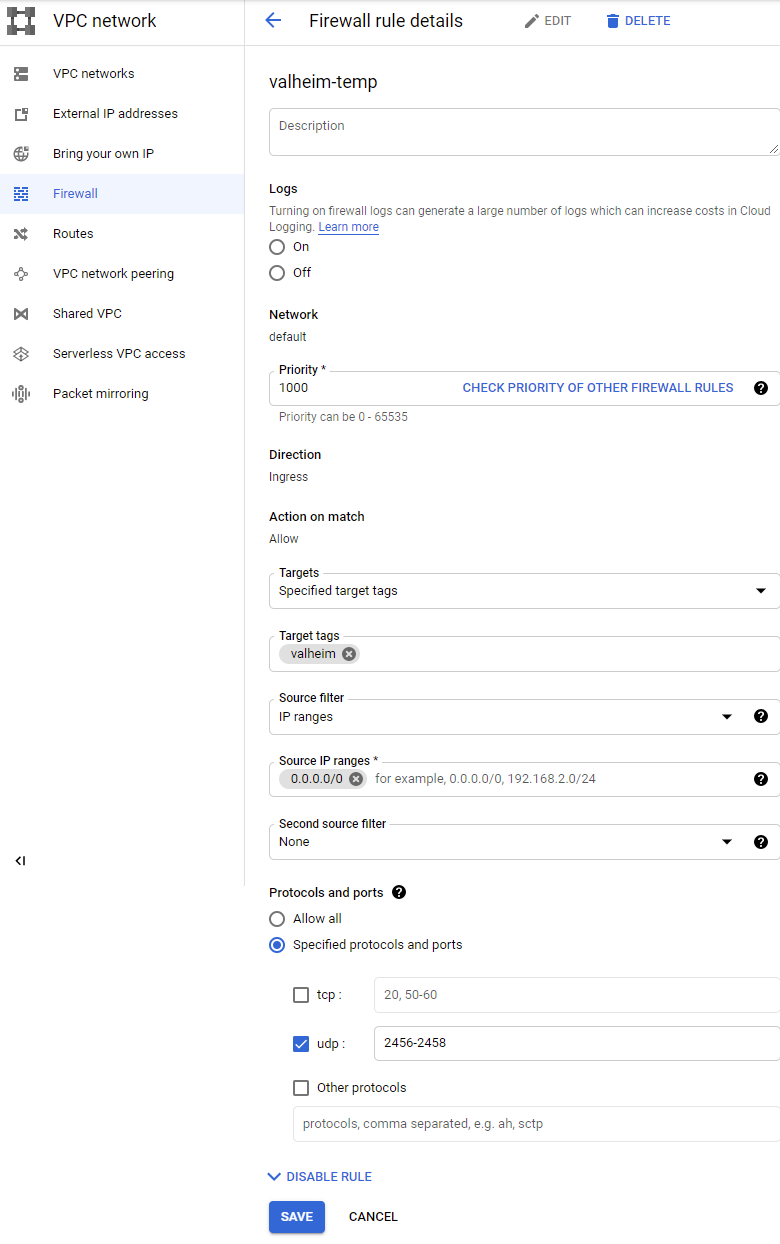
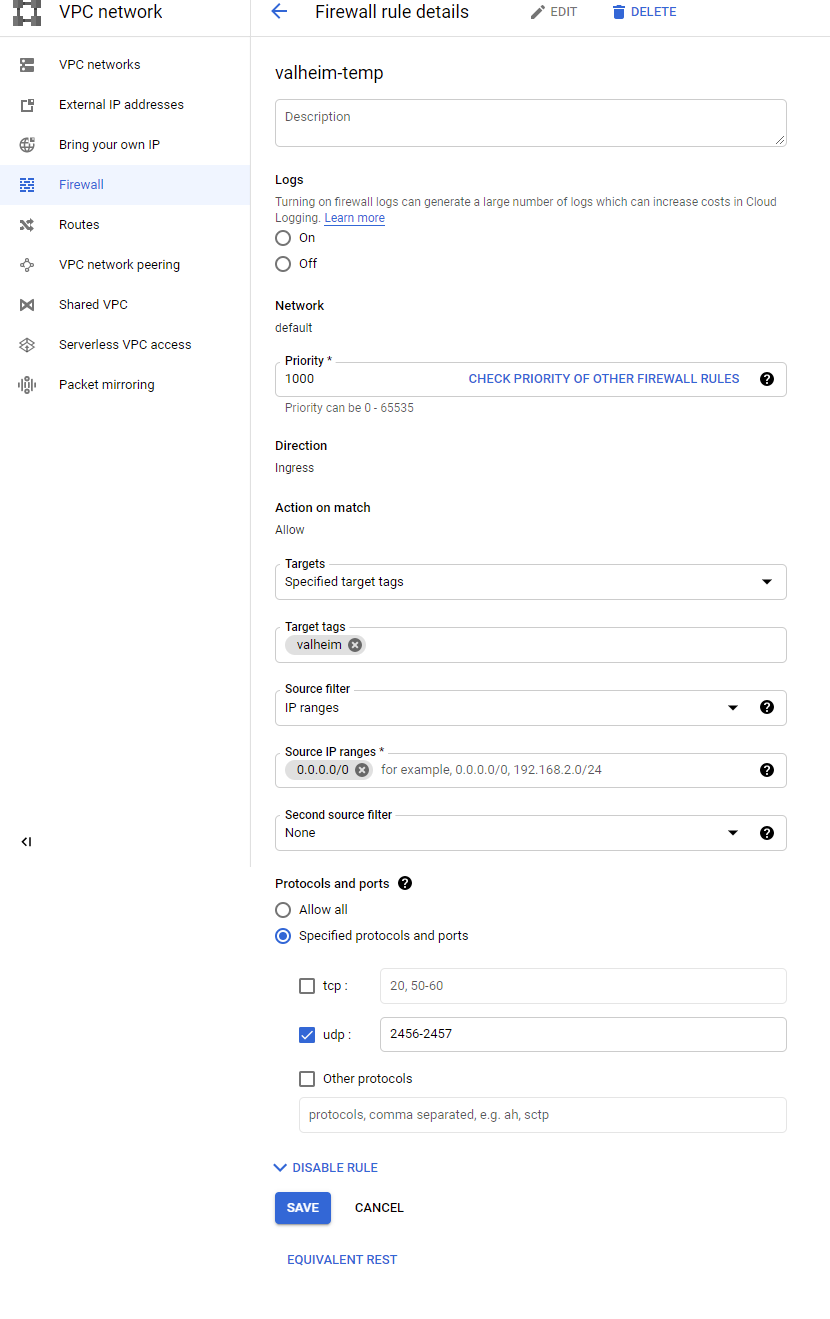
UDP ports 2456-2457 (removed 2458)

diff --git a/README.md b/README.md
@@ -35,13 +35,13 @@ The VM should appear as online after some seconds:
 <img src="./screenshots/vm-created.png" alt="vm-created.png" width="400px" />
 
 ## Port Forwarding
-You need to forward the UDP ports 2456-2458 in the firewall settings to allow players to connect:
+You need to forward the UDP ports 2456-2457 in the firewall settings to allow players to connect:
 - Goto https://console.cloud.google.com/networking/firewalls
 - Click "Create Firewall Rule"
 - Enter a suitable name like "valheim"
 - Select "Specified target tags" as Targets and enter the tag "valheim" (same as the VM's network tag)
 - Select "IP ranges" as Source filter and enter the range "0.0.0.0/0"
-- Check "udp" and enter the range "2456-2458"
+- Check "udp" and enter the range "2456-2457"
 - Click "Create"
 
 <img src="./screenshots/create-firewall-rule.png" alt="create-firewall-rule.png" height="200px" />
